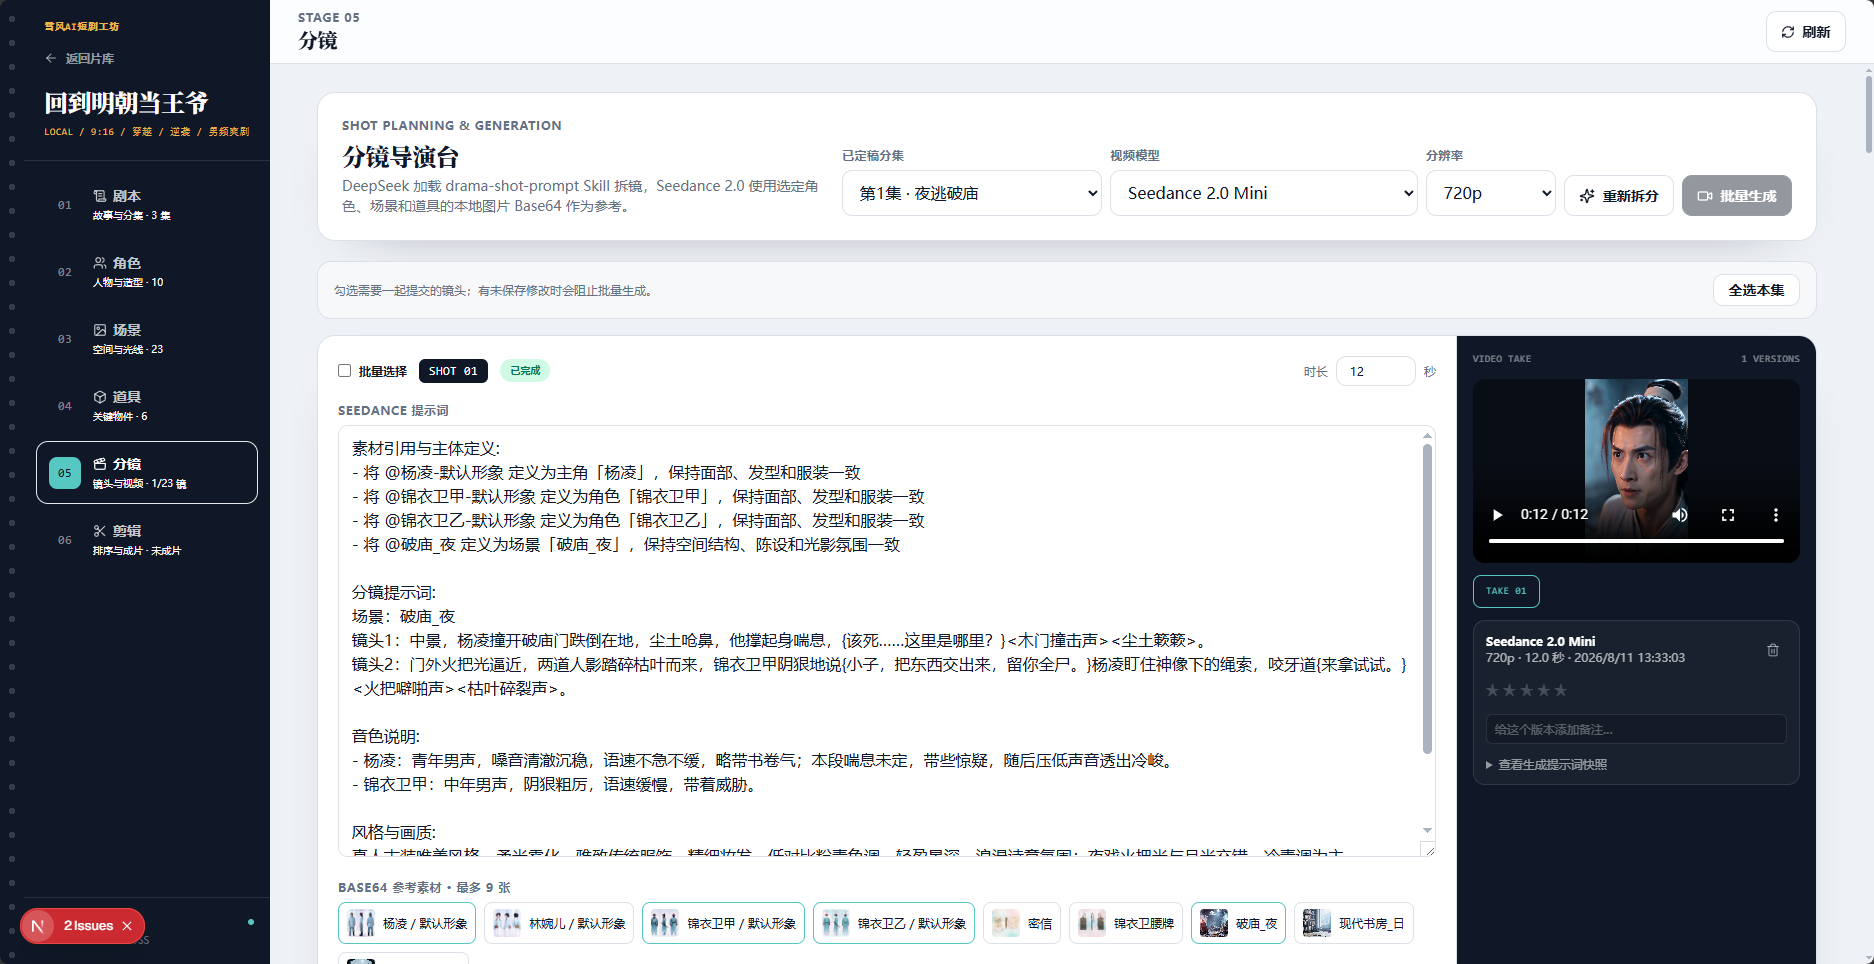
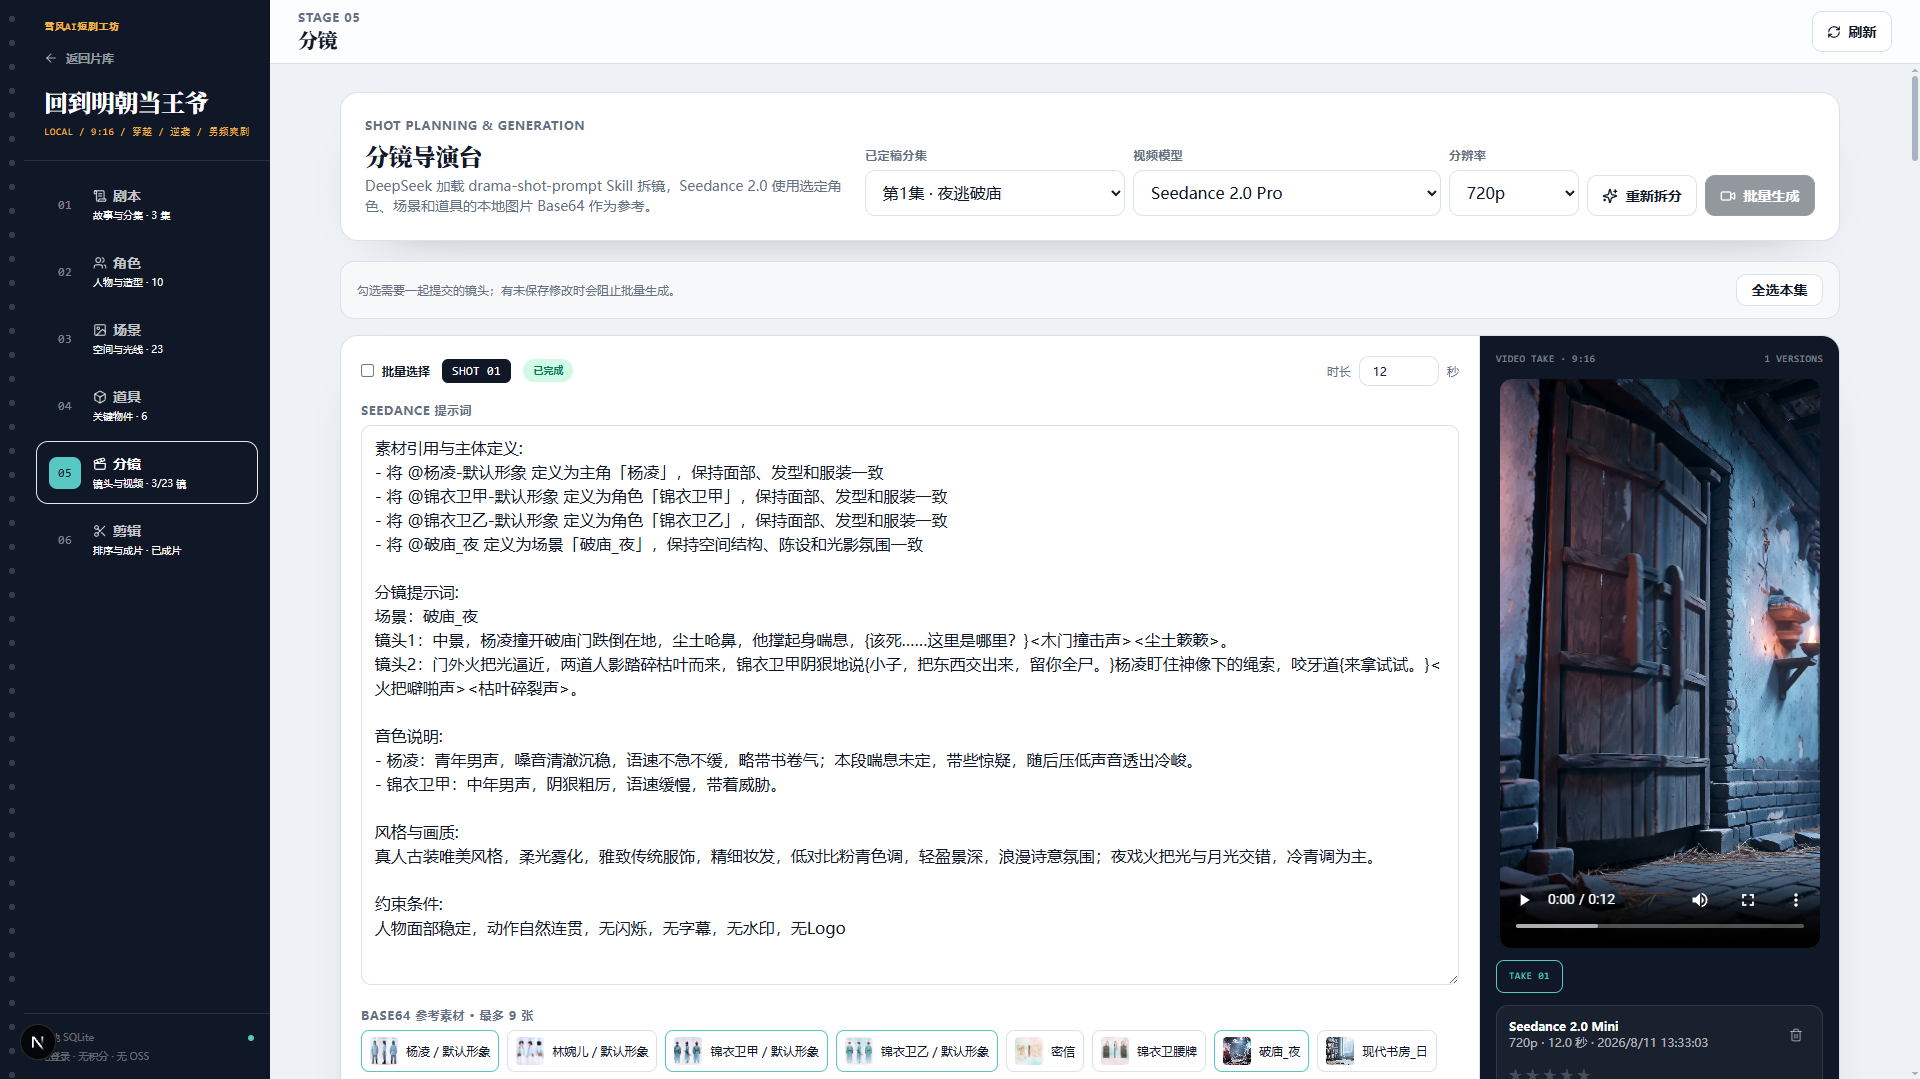
fix: 优化分镜视频预览布局

diff --git a/components/studio/storyboard-step.tsx b/components/studio/storyboard-step.tsx
@@ -218,7 +218,7 @@ export function StoryboardStep({ bundle, refresh }: Props) {
             <button className="btn-secondary !min-h-8 !py-1.5" disabled={workflowBusy} onClick={() => setSelectedShotIds(current => current.size === shots.length ? new Set() : new Set(shots.map(shot => shot.id)))}>{selectedShotIds.size === shots.length ? '清空选择' : '全选本集'}</button>
           </div>
           {shots.map(shot => (
-            <ShotCard key={shot.id + shot.updatedAt} shot={shot} entities={availableEntities} selected={selectedShotIds.has(shot.id)} locked={workflowBusy} onToggleSelected={() => setSelectedShotIds(current => { const next = new Set(current); if (next.has(shot.id)) next.delete(shot.id); else next.add(shot.id); return next })} onDirtyChange={handleDirtyChange} refresh={refresh} onGenerate={generateVideo} />
+            <ShotCard key={shot.id + shot.updatedAt} shot={shot} entities={availableEntities} ratio={bundle.project.ratio} selected={selectedShotIds.has(shot.id)} locked={workflowBusy} onToggleSelected={() => setSelectedShotIds(current => { const next = new Set(current); if (next.has(shot.id)) next.delete(shot.id); else next.add(shot.id); return next })} onDirtyChange={handleDirtyChange} refresh={refresh} onGenerate={generateVideo} />
           ))}
           <button className="panel flex w-full items-center justify-center border-dashed py-5 text-sm font-semibold text-[var(--muted)] hover:border-[var(--projector)] hover:text-[var(--ink)]" disabled={workflowBusy} onClick={() => void add()}><Plus className="mr-2 h-4 w-4" /> 手动追加镜头</button>
         </div>
@@ -227,9 +227,10 @@ export function StoryboardStep({ bundle, refresh }: Props) {
   )
 }
 
-function ShotCard({ shot, entities, selected, locked, onToggleSelected, onDirtyChange, refresh, onGenerate }: {
+function ShotCard({ shot, entities, ratio, selected, locked, onToggleSelected, onDirtyChange, refresh, onGenerate }: {
   shot: Shot
   entities: Entity[]
+  ratio: string
   selected: boolean
   locked: boolean
   onToggleSelected: () => void
@@ -337,7 +338,7 @@ function ShotCard({ shot, entities, selected, locked, onToggleSelected, onDirtyC
             <span className={`rounded-full px-2.5 py-1 text-[10px] font-bold ${statusStyle}`}>{shot.status === 'success' ? '已完成' : shot.status === 'generating' ? '生成中' : shot.status === 'failed' ? '失败' : '待生成'}</span>
             <label className="ml-auto flex items-center gap-2 text-xs text-[var(--muted)]">时长 <input type="number" min={4} max={15} className="field !w-20 !py-1.5" value={duration} disabled={editLocked} onChange={e => setDuration(Math.max(4, Math.min(15, Number(e.target.value) || 4)))} /> 秒</label>
           </div>
-          <label className="mt-4 block"><span className="label">Seedance 提示词</span><textarea className="field min-h-[27rem] resize-y leading-6" value={prompt} disabled={editLocked} onChange={e => setPrompt(e.target.value)} placeholder="主体、动作、台词、景别、运镜、光线与声音…" /></label>
+          <label className="mt-4 block"><span className="label">Seedance 提示词</span><textarea className="field min-h-[35rem] resize-y leading-6" value={prompt} disabled={editLocked} onChange={e => setPrompt(e.target.value)} placeholder="主体、动作、台词、景别、运镜、光线与声音…" /></label>
           <div className="mt-4">
             <div className="label">Base64 参考素材 · 最多 9 张</div>
             <div className="flex flex-wrap gap-2">
@@ -356,9 +357,9 @@ function ShotCard({ shot, entities, selected, locked, onToggleSelected, onDirtyC
           </div>
         </div>
         <div className="border-t border-[var(--line)] bg-[var(--navy)] p-4 text-white xl:border-l xl:border-t-0">
-          <div className="timecode mb-3 flex items-center justify-between text-[10px] text-white/45"><span>VIDEO TAKE</span><span>{completeVideos.length} VERSIONS</span></div>
-          <div className="flex aspect-video items-center justify-center overflow-hidden rounded-xl bg-black/45">
-            {shot.selectedVideo?.url ? <video key={shot.selectedVideo.url} src={shot.selectedVideo.url} controls preload="metadata" className="h-full w-full object-contain" /> : shot.status === 'generating' ? <div className="text-center text-xs text-white/60"><Loader2 className="mx-auto mb-2 h-6 w-6 animate-spin text-[var(--projector)]" />Seedance 正在制作</div> : <Video className="h-10 w-10 text-white/15" />}
+          <div className="timecode mb-3 flex items-center justify-between text-[10px] text-white/45"><span>VIDEO TAKE · {ratio}</span><span>{completeVideos.length} VERSIONS</span></div>
+          <div className={`flex items-center justify-center overflow-hidden rounded-xl bg-black/45 ${ratio === '9:16' ? 'mx-auto aspect-[9/16] w-full max-w-[20rem]' : 'aspect-video w-full'}`}>
+            {activeVideo?.url ? <video key={activeVideo.url} src={activeVideo.url} controls preload="metadata" className="h-full w-full object-contain" /> : shot.status === 'generating' ? <div className="text-center text-xs text-white/60"><Loader2 className="mx-auto mb-2 h-6 w-6 animate-spin text-[var(--projector)]" />Seedance 正在制作</div> : <Video className="h-10 w-10 text-white/15" />}
           </div>
           {completeVideos.length > 0 && <div className="mt-3 flex gap-2 overflow-x-auto">{completeVideos.map((video, index) => <button key={video.id} disabled={editLocked} onClick={() => void selectVideo(video.id)} className={`timecode rounded-lg border px-3 py-2 text-[10px] ${video.id === activeVideo?.id ? 'border-[var(--projector)] bg-[var(--projector)]/10 text-[var(--projector)]' : 'border-white/10 text-white/50'}`}>TAKE {String(index + 1).padStart(2, '0')}</button>)}</div>}
           {activeVideo && (
